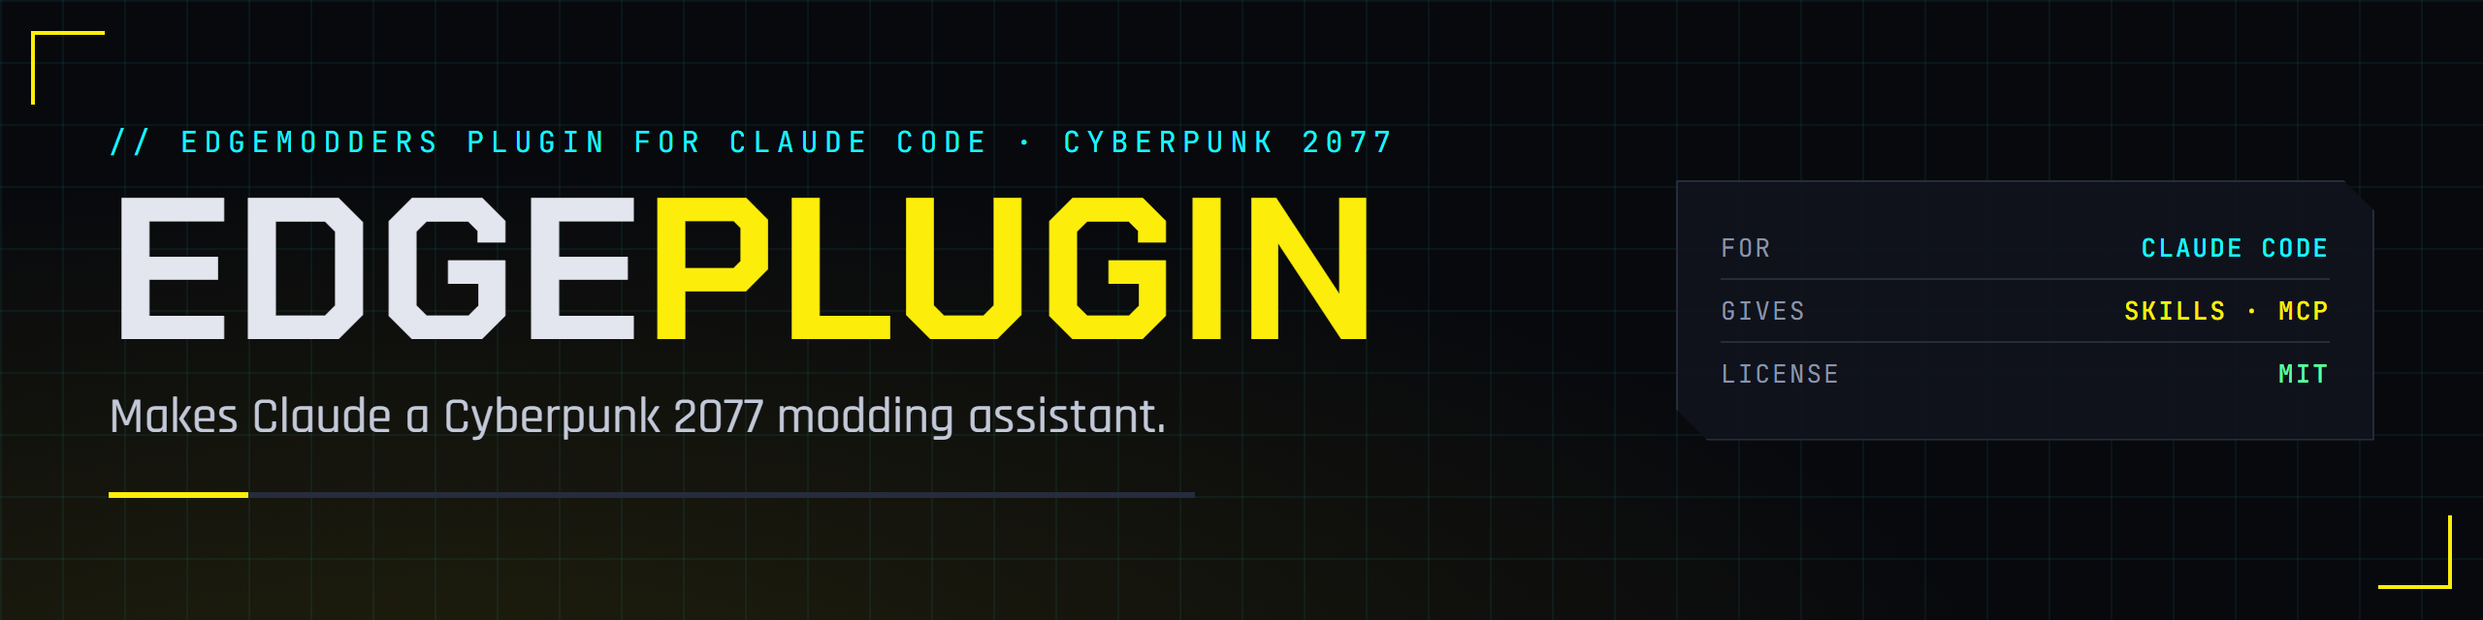
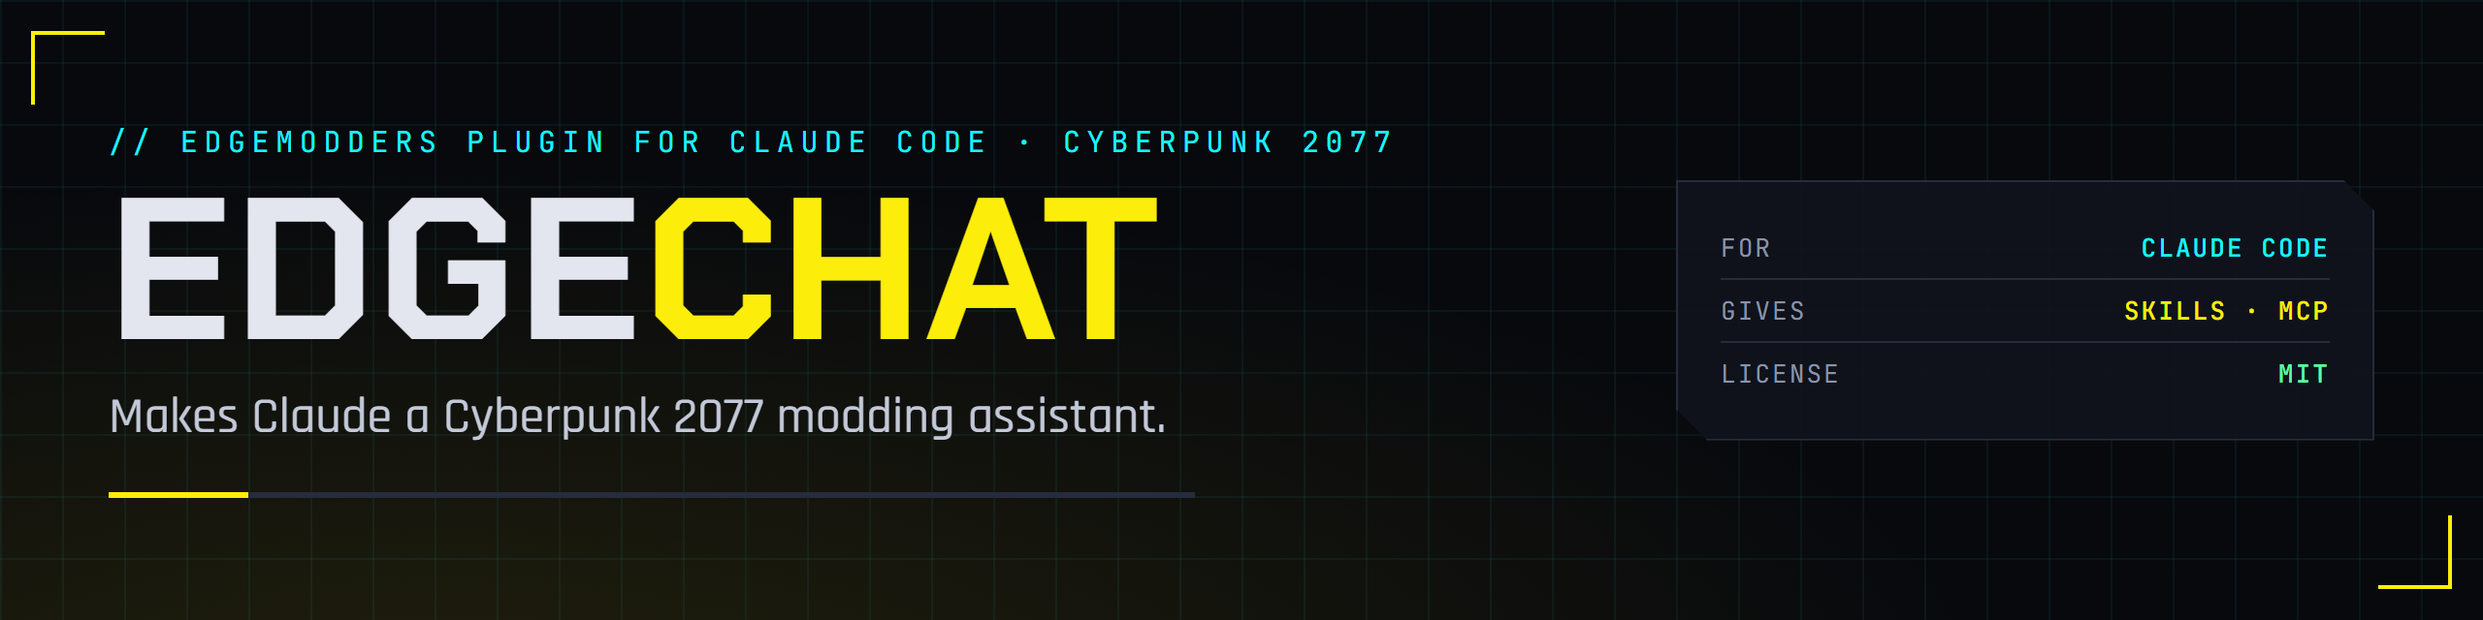
Rename EDGEplugin to EDGEchat
The user's name for it: chat with EDGE in Claude Code. It is not an agent,
which sets it apart from REDagent. Repo, docs site and brand renamed; the
plugin stays edge, so commands are unchanged.

Changed region(s): [[0.25, 0.3125, 0.5625, 0.5625], [0.25, 0.3125, 0.2812, 0.3438]]

diff --git a/docs/_layouts/default.html b/docs/_layouts/default.html
@@ -5,7 +5,7 @@
 <link rel="icon" type="image/png" href="{{ '/assets/brand/icon.png' | relative_url }}">
 <link rel="apple-touch-icon" href="{{ '/assets/brand/icon.png' | relative_url }}">
 <meta name="viewport" content="width=device-width, initial-scale=1, viewport-fit=cover">
-<title>{% if page.title and page.url != "/" %}{{ page.title }} · {% endif %}EDGEplugin</title>
+<title>{% if page.title and page.url != "/" %}{{ page.title }} · {% endif %}EDGEchat</title>
 <link rel="preconnect" href="https://fonts.googleapis.com">
 <link rel="preconnect" href="https://fonts.gstatic.com" crossorigin>
 <link href="https://fonts.googleapis.com/css2?family=Chakra+Petch:wght@500;600;700&family=Rajdhani:wght@400;500;600&family=JetBrains+Mono:wght@400;500&display=swap" rel="stylesheet">
@@ -14,7 +14,7 @@
 <body>
 
 <div class="bar"><div class="wrap">
-  <a class="home" href="{{ '/' | relative_url }}"><span class="dot"></span><b>EDGEPLUGIN</b> / DOCS</a>
+  <a class="home" href="{{ '/' | relative_url }}"><span class="dot"></span><b>EDGECHAT</b> / DOCS</a>
   <nav>
     {% for item in site.nav %}<a href="{{ item.url | relative_url }}"{% if page.url == item.url %} aria-current="page"{% endif %}>{{ item.title }}</a>{% endfor %}
   </nav>
@@ -26,7 +26,7 @@
 
 <footer class="wrap">
   <span>SOURCE: <a href="{{ site.repo }}/blob/main/docs/{{ page.path }}">docs/{{ page.path }}</a></span>
-  <span>EDGEPLUGIN &middot; EDGEMODDERS &middot; MIT</span>
+  <span>EDGECHAT &middot; EDGEMODDERS &middot; MIT</span>
 </footer>
 
 </body>

diff --git a/tools/brand/brand.html b/tools/brand/brand.html
@@ -6,7 +6,7 @@
 <html lang="en">
 <head>
 <meta charset="utf-8">
-<title>EDGEplugin brand</title>
+<title>EDGEchat brand</title>
 <link rel="preconnect" href="https://fonts.googleapis.com">
 <link rel="preconnect" href="https://fonts.gstatic.com" crossorigin>
 <link href="https://fonts.googleapis.com/css2?family=Chakra+Petch:wght@500;600;700&family=Rajdhani:wght@500;600&family=JetBrains+Mono:wght@400;500&display=block" rel="stylesheet">
@@ -74,7 +74,7 @@ h1 span { color: var(--yellow); }
 <div class="frame">
   <div>
     <div class="eyebrow">// EDGEmodders plugin for Claude Code &middot; Cyberpunk 2077</div>
-    <h1>EDGE<span>plugin</span></h1>
+    <h1>EDGE<span>chat</span></h1>
     <p class="tag">Makes Claude a Cyberpunk 2077 modding assistant.</p>
     <div class="rule"></div>
   </div>

diff --git a/tools/brand/icon.html b/tools/brand/icon.html
@@ -3,7 +3,7 @@
 <html lang="en">
 <head>
 <meta charset="utf-8">
-<title>EDGEplugin icon</title>
+<title>EDGEchat icon</title>
 <link rel="preconnect" href="https://fonts.googleapis.com">
 <link rel="preconnect" href="https://fonts.gstatic.com" crossorigin>
 <link href="https://fonts.googleapis.com/css2?family=Chakra+Petch:wght@700&family=JetBrains+Mono:wght@500&display=block" rel="stylesheet">
@@ -27,6 +27,6 @@ html, body { margin: 0; background: transparent; }
 </style>
 </head>
 <body>
-<div class="icon"><div class="mark">E<span>P</span></div><div class="bar"></div></div>
+<div class="icon"><div class="mark">E<span>C</span></div><div class="bar"></div></div>
 </body>
 </html>

diff --git a/docs/assets/css/hud.css b/docs/assets/css/hud.css
@@ -62,7 +62,7 @@ a { color: var(--cyan); }
   margin: 0 0 18px; text-wrap: balance;
 }
 .doc > h1:first-child::before {
-  content: "// EDGEplugin docs"; display: block; margin-bottom: 12px;
+  content: "// EDGEchat docs"; display: block; margin-bottom: 12px;
   font-family: var(--mono); font-size: 12px; font-weight: 400; letter-spacing: .2em; color: var(--cyan);
 }
 .doc h1 .y, .doc h2 .y { color: var(--yellow); }

diff --git a/docs/design.md b/docs/design.md
@@ -1,14 +1,14 @@
-# EDGEplugin design
+# EDGEchat design
 
-EDGEplugin is the EDGE plugin for [Claude Code](https://code.claude.com/docs/en/overview): one install that makes Claude a Cyberpunk 2077 modding assistant. It gives Claude the **context** (what the game's files, frameworks and folders are, and the EDGE house rules) and the **tools** (the EDGE MCP servers, which read the game's archives, the TweakDB and the running game). It works wherever Claude Code runs: in EDGEkit, in VS Code, and in a terminal.
+EDGEchat is the EDGE plugin for [Claude Code](https://code.claude.com/docs/en/overview): one install that makes Claude a Cyberpunk 2077 modding assistant. It gives Claude the **context** (what the game's files, frameworks and folders are, and the EDGE house rules) and the **tools** (the EDGE MCP servers, which read the game's archives, the TweakDB and the running game). It works wherever Claude Code runs: in EDGEkit, in VS Code, and in a terminal.
 
-**Status: draft 0.3, P1 built.** Proposed in the EDGEkit session on 2026-10-16 and agreed with the user, who created the repo. P0's checks ran on 2026-10-16 (see [P0 decisions](#p0-decisions)). P1's skeleton (manifest, marketplace, `rednode` and `redcode`, the `setup` and `init-project` skills) installs and `redcode` connects; the tests with the game running and in VS Code are next.
+**Status: draft 0.4, P1 built; renamed from EDGEplugin to EDGEchat on 2026-10-17.** Proposed in the EDGEkit session on 2026-10-16 and agreed with the user, who created the repo. P0's checks ran on 2026-10-16 (see [P0 decisions](#p0-decisions)). P1's skeleton (manifest, marketplace, `rednode` and `redcode`, the `setup` and `init-project` skills) installs and `redcode` connects; the tests with the game running and in VS Code are next.
 
 ## Why a plugin
 
 Claude Code already runs in EDGEkit (from Open VSX) and in VS Code. Out of the box it knows little about Cyberpunk modding and cannot see the game. Claude Code has four standard ways to change that; a plugin carries the first three in one install.
 
-| Mechanism | What it gives Claude | Role in EDGEplugin |
+| Mechanism | What it gives Claude | Role in EDGEchat |
 |---|---|---|
 | Skills | Instructions loaded only when a task needs them; their short descriptions are always in context | The modding knowledge, one skill per topic |
 | MCP servers | Real tools | REDcode's `redcode-mcp` (archives, CR2W, TweakDB, sounds, offline), REDnode's kernel server (the running game), later EDGEmat's `edgemat-mcp` |
@@ -23,7 +23,7 @@ From the Claude Code docs, read on 2026-10-16. Each row names its page under `ht
 |---|---|---|
 | A plugin is a folder with `.claude-plugin/plugin.json` (only `name` is required); `skills/<name>/SKILL.md`, `agents/`, `hooks/hooks.json`, `.mcp.json` and `bin/` sit at the plugin root | The repo root is the plugin | `plugins/manifest-reference` |
 | A marketplace is `.claude-plugin/marketplace.json` with `name`, `owner.name` and `plugins` (each with `name` and `source`). A source of `"./"` means the marketplace's own root | This repo is both the marketplace and the plugin. **Checked in P0** (Claude Code 2.1.299): both manifests pass `claude plugin validate --strict`, and `marketplace add` of the folder then `plugin install edge@edgemodders` installs it. `--strict` wants a top-level `description` in `marketplace.json`. `validate .` checks the marketplace manifest; validate `plugin.json` by its path too | `plugins/marketplace-reference` |
-| Users install with `/plugin marketplace add Edgemodders/EDGEplugin`, then `/plugin install <plugin>@<marketplace>`; recent versions also take `claude plugin install <plugin> --marketplace Edgemodders/EDGEplugin` | The README gives these two commands | `plugins/install` |
+| Users install with `/plugin marketplace add Edgemodders/EDGEchat`, then `/plugin install <plugin>@<marketplace>`; recent versions also take `claude plugin install <plugin> --marketplace Edgemodders/EDGEchat` | The README gives these two commands | `plugins/install` |
 | Plugin and marketplace names are kebab-case and must not look like Anthropic's (for example not starting `claude-` or `anthropic-`) | See the naming question in P0 | `plugins/manifest-reference` |
 | Skills: YAML frontmatter (`name`, `description`, `when_to_use`, `disable-model-invocation`, `user-invocable`, `allowed-tools`, ...), then Markdown. Descriptions are always in context (cut at 1,536 characters with `when_to_use`); the body loads when used. Keep `SKILL.md` under 500 lines; reference files and `scripts/` can sit beside it | Many small skills with sharp descriptions, details in reference files | `skills` |
 | Plugin skills are namespaced: `/<plugin>:<skill>` | Commands read like `/edge:new-mod` if the plugin is named `edge` | `skills` |
@@ -92,13 +92,13 @@ Knowledge skills load on their own when a task matches; command skills are calle
 
 ### One source of truth with REDagent
 
-REDagent briefs Claude for modding in the game (`briefing.md`, about 50 lines, plus REDnode's overlay apps guide copied in at build). Modders must not get different advice from REDagent and from Claude Code with EDGEplugin.
+REDagent briefs Claude for modding in the game (`briefing.md`, about 50 lines, plus REDnode's overlay apps guide copied in at build). Modders must not get different advice from REDagent and from Claude Code with EDGEchat.
 
-The two do not overlap. REDagent is an Agent SDK product inside the game, on the player's API key, with `settingSources: []` (it reads no Claude Code settings, skills or plugins) and a rule that it must not look like Claude Code. EDGEplugin is for Claude Code, wherever that runs. They share the `rednode` server. Its phase C6 (REDagent in REDcode) would have put a second assistant in the editor; **the user dropped C6 on 2026-10-16**, because Claude Code with EDGEplugin covers the editor.
+The two do not overlap. REDagent is a whole agent, powered by Claude: its own window, tools and briefing. EDGEchat is not an agent: it connects Claude Code to EDGE, so you chat with EDGE while you build mods. REDagent is an Agent SDK product inside the game, on the player's API key, with `settingSources: []` (it reads no Claude Code settings, skills or plugins) and a rule that it must not look like Claude Code. EDGEchat is for Claude Code, wherever that runs. They share the `rednode` server. Its phase C6 (REDagent in REDcode) would have put a second assistant in the editor; **the user dropped C6 on 2026-10-16**, because Claude Code with EDGEchat covers the editor.
 
 **Where knowledge lives (proposed in P0; REDagent's side to agree with its session):**
 
-| Knowledge | Lives in | Reaches EDGEplugin and REDagent by |
+| Knowledge | Lives in | Reaches EDGEchat and REDagent by |
 |---|---|---|
 | One EDGE tool's own use (REDnode's guides, REDcode's MCP docs) | That tool's repo | Copied at build, the way REDagent already copies REDnode's `overlay-apps.md` |
 | How to call a server's tools | The server's own instructions and tool descriptions | The server; skills do not repeat it |
@@ -122,10 +122,11 @@ Phases are P0 to P5. **Unverified:** that no other EDGE repo uses P. Each ends w
 
 | Question | Status |
 |---|---|
-| Plugin and marketplace names | **Working names**, changeable until P4: marketplace `edgemodders`, plugin `edge`, so commands read `/edge:new-mod` and install is `/plugin install edge@edgemodders`. A marketplace is just the `marketplace.json` in this repo; the names are not registered anywhere, they only must not start with `claude-` or `anthropic-` |
+| Product name | **EDGEchat**, decided by the user 2026-10-17 (was EDGEplugin): it names what the user does, chat with EDGE, without the word plugin; and it is not an agent, so not EDGEagent. The repo, docs site and brand were renamed the same day |
+| Plugin and marketplace names | **Working names**, changeable until P4; the plugin stays `edge` after the rename, for short commands: marketplace `edgemodders`, plugin `edge`, so commands read `/edge:new-mod` and install is `/plugin install edge@edgemodders`. A marketplace is just the `marketplace.json` in this repo; the names are not registered anywhere, they only must not start with `claude-` or `anthropic-` |
 | One repo as marketplace and plugin | **Checked** 2026-10-16, see the facts above |
 | Separate repo, or a plugin folder in REDagent | **Separate**, decided 2026-10-16. REDagent is a game product that must not look like Claude Code; the plugin covers every EDGE tool; the shared knowledge lives in REDnode and REDcode, not REDagent |
-| REDagent C6 | **Dropped** by the user 2026-10-16; Claude Code with EDGEplugin is the editor's assistant |
+| REDagent C6 | **Dropped** by the user 2026-10-16; Claude Code with EDGEchat is the editor's assistant |
 | Where shared knowledge lives | **Proposed**, the table above. REDagent's side to agree with its session |
 | How `redcode-mcp` reaches users | **Done** by REDcode: npm, `@edgemodders/redcode-mcp` 0.2.0 |
 | How REDdeck's server reaches users | **Asked** of the REDdeck session 2026-10-16: npm, like `redcode-mcp` |

diff --git a/README.md b/README.md
@@ -1,18 +1,20 @@
 <p align="center">
-  <img src="docs/assets/brand/banner.png" alt="EDGEplugin: the EDGEmodders plugin for Claude Code. Makes Claude a Cyberpunk 2077 modding assistant. For Claude Code, gives skills and MCP servers, MIT." width="100%">
+  <img src="docs/assets/brand/banner.png" alt="EDGEchat: the EDGEmodders plugin for Claude Code. Makes Claude a Cyberpunk 2077 modding assistant. For Claude Code, gives skills and MCP servers, MIT." width="100%">
 </p>
 
 <p align="center">
-  <a href="https://edgemodders.github.io/EDGEplugin/"><img src="docs/assets/brand/badges/docs.svg" alt="docs: read the docs"></a>
+  <a href="https://edgemodders.github.io/EDGEchat/"><img src="docs/assets/brand/badges/docs.svg" alt="docs: read the docs"></a>
   <img src="docs/assets/brand/badges/status.svg" alt="status: P1 skeleton">
   <img src="docs/assets/brand/badges/game.svg" alt="game: Cyberpunk 2077">
   <img src="docs/assets/brand/badges/for.svg" alt="for: Claude Code">
   <a href="LICENSE"><img src="docs/assets/brand/badges/license.svg" alt="license: MIT"></a>
 </p>
 
-The EDGE plugin for [Claude Code](https://code.claude.com/docs/en/overview): it makes Claude a Cyberpunk 2077 modding assistant. Skills that know the game's files and frameworks, the EDGE tools that read the game's archives and the running game, and commands such as "start a new mod", in one install. It works in [EDGEkit](https://github.com/Edgemodders/EDGEkit), in VS Code, and in a terminal.
+Chat with EDGE in [Claude Code](https://code.claude.com/docs/en/overview). EDGEchat is a plugin that makes Claude a Cyberpunk 2077 modding assistant. Skills that know the game's files and frameworks, the EDGE tools that read the game's archives and the running game, and commands such as "start a new mod", in one install. It works in [EDGEkit](https://github.com/Edgemodders/EDGEkit), in VS Code, and in a terminal.
 
-**[Docs](https://edgemodders.github.io/EDGEplugin/)** · [Design](https://edgemodders.github.io/EDGEplugin/design.html) · [EDGEkit](https://github.com/Edgemodders/EDGEkit) · [REDagent](https://github.com/Edgemodders/REDagent)
+EDGEchat is not an agent: it connects Claude Code to EDGE while you build mods. [REDagent](https://github.com/Edgemodders/REDagent) is the agent in the game, with its own window and tools.
+
+**[Docs](https://edgemodders.github.io/EDGEchat/)** · [Design](https://edgemodders.github.io/EDGEchat/design.html) · [EDGEkit](https://github.com/Edgemodders/EDGEkit) · [REDagent](https://github.com/Edgemodders/REDagent)
 
 > [!NOTE]
 > **Status: P1, skeleton.** It installs and connects the servers, with two commands (`/edge:setup`, `/edge:init-project`). No modding skills yet. Windows only for the servers.
@@ -22,7 +24,7 @@ The EDGE plugin for [Claude Code](https://code.claude.com/docs/en/overview): it 
 In Claude Code (the CLI, or `/plugins` in the VS Code extension and EDGEkit):
 
 ```
-/plugin marketplace add Edgemodders/EDGEplugin
+/plugin marketplace add Edgemodders/EDGEchat
 /plugin install edge@edgemodders
 ```
 
@@ -30,7 +32,7 @@ Then run `/edge:setup`. It checks the servers and says what is missing. The plug
 
 The servers need Windows, the game with REDnode for `rednode`, and Node.js, the .NET 10 runtime and REDbridge 0.8.0 or newer for `redcode`. If you added `rednode` or `redcode` by hand before, remove that copy (`/edge:setup` explains how).
 
-`edge` and `edgemodders` are working names until the first release.
+The plugin is called `edge`, so commands stay short. `edge` and `edgemodders` are working names until the first release.
 
 ## What it will give Claude
 

diff --git a/CLAUDE.md b/CLAUDE.md
@@ -1,11 +1,11 @@
-# EDGEplugin: notes for Claude sessions
+# EDGEchat: notes for Claude sessions
 
-EDGEplugin is the EDGE plugin for Claude Code: skills with Cyberpunk 2077 modding knowledge, the EDGE MCP servers (REDnode's kernel server for the running game, REDcode's `redcode-mcp` for the game's files, REDdeck's for deploys, later EDGEmat's), and a few commands, in one install from this repo's own plugin marketplace. It works in EDGEkit, VS Code and the terminal. Read [docs/design.md](docs/design.md) first: it has the facts from the Claude Code docs that the design rests on, with their pages.
+EDGEchat is the EDGE plugin for Claude Code: skills with Cyberpunk 2077 modding knowledge, the EDGE MCP servers (REDnode's kernel server for the running game, REDcode's `redcode-mcp` for the game's files, REDdeck's for deploys, later EDGEmat's), and a few commands, in one install from this repo's own plugin marketplace. It works in EDGEkit, VS Code and the terminal. Read [docs/design.md](docs/design.md) first: it has the facts from the Claude Code docs that the design rests on, with their pages.
 
 ## Status and next step
 
 - Scaffold created 2026-10-16 from the EDGEkit session: README, license, docs site (HUD layout, design draft 0.1, dev setup), Pages workflow, brand sources and images (`tools/brand/render.ps1`: banner, social preview, icon, badges). No plugin files yet.
-- **P0 Decide under way** (2026-10-16, table at the end of the design). Done: one repo as marketplace and plugin checked with Claude Code 2.1.299; separate repo, not a folder in REDagent; REDagent C6 dropped by the user; `redcode-mcp` on npm. Open: final names (working: `edge@edgemodders`), REDagent's side of knowledge sharing, REDdeck's server on npm (asked today), how EDGEkit provides the plugin (EDGEkit session), community source licenses.
+- **P0 Decide under way** (2026-10-16, table at the end of the design). Done: renamed from EDGEplugin to EDGEchat on 2026-10-17 (repo, docs site, brand; plugin still `edge`); one repo as marketplace and plugin checked with Claude Code 2.1.299; separate repo, not a folder in REDagent; REDagent C6 dropped by the user; `redcode-mcp` on npm. Open: final names (working: `edge@edgemodders`), REDagent's side of knowledge sharing, REDdeck's server on npm (asked today), how EDGEkit provides the plugin (EDGEkit session), community source licenses.
 - **P1 Skeleton built** (2026-10-16): `.claude-plugin/plugin.json` (servers inline, not a root `.mcp.json`, which would also load as this repo's project servers), `marketplace.json`, `scripts/redcode-mcp.cmd` (clears empty options, see the design's facts), skills `setup` and `init-project` (facts in `skills/init-project/layouts.md`, each with its source). Installs from the checkout; `redcode` connects. **Next:** install from GitHub, the test with the game running (`/edge:setup` reports `rednode` connected) and in the VS Code extension; `reddeck` once REDdeck publishes it.
 - Asked of REDcode (through the user): `redcode-mcp` should take an empty variable as unset, and read EDGEkit's settings folder too. Then the wrapper can go.
 - The Claude Code facts were read on 2026-10-16. Claude Code changes often: recheck a fact's page before building on it, and fix the design when it has moved.

diff --git a/docs/index.md b/docs/index.md
@@ -2,15 +2,15 @@
 title: Docs
 ---
 
-# EDGE<span class="y">plugin</span>
+# EDGE<span class="y">chat</span>
 
-The EDGE plugin for Claude Code: Cyberpunk 2077 modding knowledge as skills, the EDGE MCP servers, and modding commands, in one install. Source: [github.com/Edgemodders/EDGEplugin](https://github.com/Edgemodders/EDGEplugin).
+The EDGE plugin for Claude Code: Cyberpunk 2077 modding knowledge as skills, the EDGE MCP servers, and modding commands, in one install. Source: [github.com/Edgemodders/EDGEchat](https://github.com/Edgemodders/EDGEchat).
 
 ## Documents
 
 | Document | What it covers |
 |---|---|
-| [Design](design.html) | Why a plugin, the facts from the Claude Code docs that shape it, its shape (MCP servers, skills, commands), where the knowledge comes from, sharing with REDagent, phases P0 to P5, the P0 decisions. Draft 0.3 |
+| [Design](design.html) | Why a plugin, the facts from the Claude Code docs that shape it, its shape (MCP servers, skills, commands), where the knowledge comes from, sharing with REDagent, phases P0 to P5, the P0 decisions. Draft 0.4 |
 | [Dev setup](dev-setup.html) | What a PC needs to build and test the plugin |
 | [Tests](testing.html) | Every test run so far, by CLI and by hand: how to run it again, what to expect, and what it showed |
 
@@ -18,7 +18,7 @@ The EDGE plugin for Claude Code: Cyberpunk 2077 modding knowledge as skills, the
 
 | Phase | Status |
 |---|---|
-| P0 Decide | Under way. Done: the single-repo marketplace check, separate repo (not in REDagent), REDagent C6 dropped, `redcode-mcp` on npm. Open: names (working names `edge@edgemodders`), knowledge sharing with REDagent, REDdeck's server on npm, community source licenses |
+| P0 Decide | Under way. Done: the name EDGEchat (was EDGEplugin), the single-repo marketplace check, separate repo (not in REDagent), REDagent C6 dropped, `redcode-mcp` on npm. Open: plugin names (working names `edge@edgemodders`), knowledge sharing with REDagent, REDdeck's server on npm, community source licenses |
 | P1 Skeleton | Built. Manifest, marketplace, `rednode` and `redcode`, `/edge:setup` and `/edge:init-project`; installs, and `redcode` connects. Next: the test with the game running and in VS Code, then `reddeck` once on npm |
 | P2 Knowledge | Not started. The modding skills, checked against the game, with evals |
 | P3 Commands | Not started. New mod, check mod |

diff --git a/docs/testing.md b/docs/testing.md
@@ -1,6 +1,6 @@
 # <span class="y">Tests</span>
 
-Every test run on EDGEplugin so far: how to run it again, what to expect, and what it showed. Each phase ends with a test on the dev PC ([design, "Phases"](design.html#phases)); new tests are added here when they are first run.
+Every test run on EDGEchat so far: how to run it again, what to expect, and what it showed. Each phase ends with a test on the dev PC ([design, "Phases"](design.html#phases)); new tests are added here when they are first run.
 
 Last updated 2026-10-16.
 
@@ -74,7 +74,7 @@ With a local marketplace the plugin is read from the checkout (`CLAUDE_PLUGIN_RO
 What a user does. Needs the commit pushed.
 
 ```bash
-claude plugin marketplace add Edgemodders/EDGEplugin
+claude plugin marketplace add Edgemodders/EDGEchat
 claude plugin install edge@edgemodders
 claude mcp list
 ```
@@ -138,7 +138,7 @@ With the game closed it is `ECONNREFUSED` instead. `/edge:setup` tells the two a
 Not run yet. The test that ends P1 ([design](design.html#phases)). Needs your own Claude Code login, so it runs in your real config.
 
 1. Remove a `rednode` added by hand, which hides the plugin's: `claude mcp remove rednode -s user`.
-2. In the VS Code extension: `/plugins`, add the marketplace `Edgemodders/EDGEplugin`, install `edge`.
+2. In the VS Code extension: `/plugins`, add the marketplace `Edgemodders/EDGEchat`, install `edge`.
 3. Start the game. **F10**, **REDNODE** tab, **MCP server** on, **Copy setup**. Put only the token (after `Bearer `) in the plugin's `rednode_token`: the gear on the `edge` row.
 4. Start a new session and run `/edge:setup`.
 

diff --git a/docs/dev-setup.md b/docs/dev-setup.md
@@ -1,6 +1,6 @@
 # Dev setup
 
-What a PC needs to build and test EDGEplugin. Taken from the Claude Code docs on 2026-10-16; the validate and install steps ran in P0 on a throwaway copy (below). P1 runs the rest and records exact versions.
+What a PC needs to build and test EDGEchat. Taken from the Claude Code docs on 2026-10-16; the validate and install steps ran in P0 on a throwaway copy (below). P1 runs the rest and records exact versions.
 
 | Tool | Why | Notes |
 |---|---|---|
